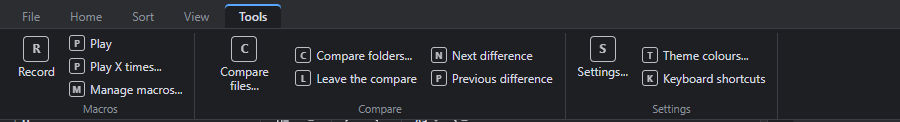
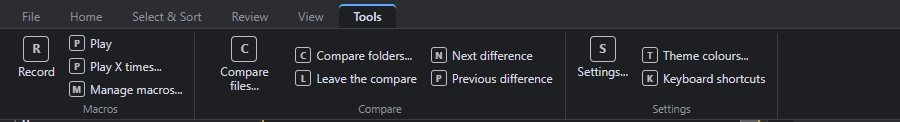
Plan 39: Highlights on a Review tab, Select joins Sort (Select & Sort); Home 1207 px fits; the tab name a question
Claude-Session: https://claude.ai/code/session_011ip4AMjLGVDRBeh8bEWE2k

diff --git a/docs/plans/39-PLAN-ribbon.md b/docs/plans/39-PLAN-ribbon.md
@@ -12,7 +12,7 @@ must be able to choose what is on it.
 
 ## 2. The solution, in brief
 
-An optional ribbon under the menu bar, with tabs (File, Home, Sort, View, Tools); each tab holds named groups of
+An optional ribbon under the menu bar, with tabs (File, Home, Select & Sort, Review, View, Tools); each tab holds named groups of
 buttons, each button running an action as its menu item does, its tooltip showing the title and the key. A button is
 large (icon above its label, the ribbon's full height) or small (icon with its label beside it), and up to three
 small buttons stack in the height of one large one. A group may have a small icon in its corner that opens its
@@ -44,16 +44,21 @@ divider. "Corner": the action of the group's corner icon.
 | Find | Find (large) / Find previous + Find next + Replace / Replace in files + Search in files + Find references |
 | Occurrences | Show all occurrences + Occurrences field + Clear occurrences. Corner: Show / close the Occurrences bar |
 | Go | Go to line + Go to definition |
-| Select | Select all (large) / Line + Block + Brackets (Select line, Select a block, Select inside brackets) / divider / Column mode (large, a toggle) |
 | Bookmarks | Toggle unnumbered bookmark (large) / Previous + Next (Previous bookmark, Next bookmark). Corner: Manage bookmarks |
-| Highlights | Highlight + Highlight note + Remove highlight. Corner: Highlights window |
 
-**Sort**
+**Select & Sort** (its name: question 1)
 
 | Group | Columns |
 |---|---|
+| Select | Select all (large) / Line + Block + Brackets (Select line, Select a block, Select inside brackets) / divider / Column mode (large, a toggle) |
 | Sort | Sort... (large) / Sort ascending + Sort descending + Sort again. Corner: the Sort panel's stored sorts |
 | History | Undo + Redo |
+
+**Review**
+
+| Group | Columns |
+|---|---|
+| Highlights | Highlight + Highlight note + Remove highlight. Corner: Highlights window |
 
 **View**
 
@@ -80,18 +85,20 @@ divider. "Corner": the action of the group's corner icon.
 - **Editor and Preview** are not on Home: they are the switches at the window's top right, and View > Document.
 - **Day / Night**: the two values of Day / night, each its own button, the current one pressed.
 - **Width**, measured in a mock (a test copy, LexPen's own font and the Dark theme, group names on, a 1264 px wide
-  window): File 233 px, Home 1594 px, Sort 257 px, View 712 px, Tools 779 px. Home's groups: Edit 216, Lines 96, Clipboard
-  152, Find 273, Occurrences 157, Go 129, Select 248, Bookmarks 179, Highlights 139; the ribbon 120 px high with its
-  tabs. Home does not fit that window (question 1).
+  window): File 233 px, Home 1207 px, Select & Sort 505 px, Review 146 px, View 712 px, Tools 779 px. Home's groups:
+  Edit 216, Lines 96, Clipboard 152, Find 273, Occurrences 157, Go 129, Bookmarks 179; the ribbon 120 px high with its
+  tabs. Every tab fits that window; a narrower one sends Home's right end into the ">>" menu.
 
 The mock, per tab (the icons are placeholders: a box with the label's first letter; the corner icon at the bottom
-right of Clipboard, Occurrences, Bookmarks, Highlights and Sort):
+right of Clipboard, Occurrences, Bookmarks, Sort and Highlights):
 
 ![ribbon-File](39-PLAN-ribbon.md.images/ribbon-File.png)
 
 ![ribbon-Home](39-PLAN-ribbon.md.images/ribbon-Home.png)
 
-![ribbon-Sort](39-PLAN-ribbon.md.images/ribbon-Sort.png)
+![ribbon-SelectSort](39-PLAN-ribbon.md.images/ribbon-SelectSort.png)
+
+![ribbon-Review](39-PLAN-ribbon.md.images/ribbon-Review.png)
 
 ![ribbon-View](39-PLAN-ribbon.md.images/ribbon-View.png)
 
@@ -175,7 +182,7 @@ right of Clipboard, Occurrences, Bookmarks, Highlights and Sort):
 
 ## 4. Open questions
 
-1. Home is wider than a 1264 px window (1594 px in the mock): split it into two tabs (for instance Home: Edit,
-   Lines, Clipboard, Find, Occurrences; and Navigate: Go, Select, Bookmarks, Highlights), make more of its large buttons small (Select
-   all, Toggle bookmark), or keep it and let the right end go into the ">>" menu?
-2. History (Undo, Redo) on Sort, as now, or on Home, where the actions used most are?
+1. The name of the tab with Select, Sort and History: "Select & Sort" in the mock; or "Arrange", "Selection", or
+   another?
+2. History (Undo, Redo) on that tab, as now, or on Home, where the actions used most are? Home has room for it
+   (1207 px of a 1264 px window, History 75 px), just.
